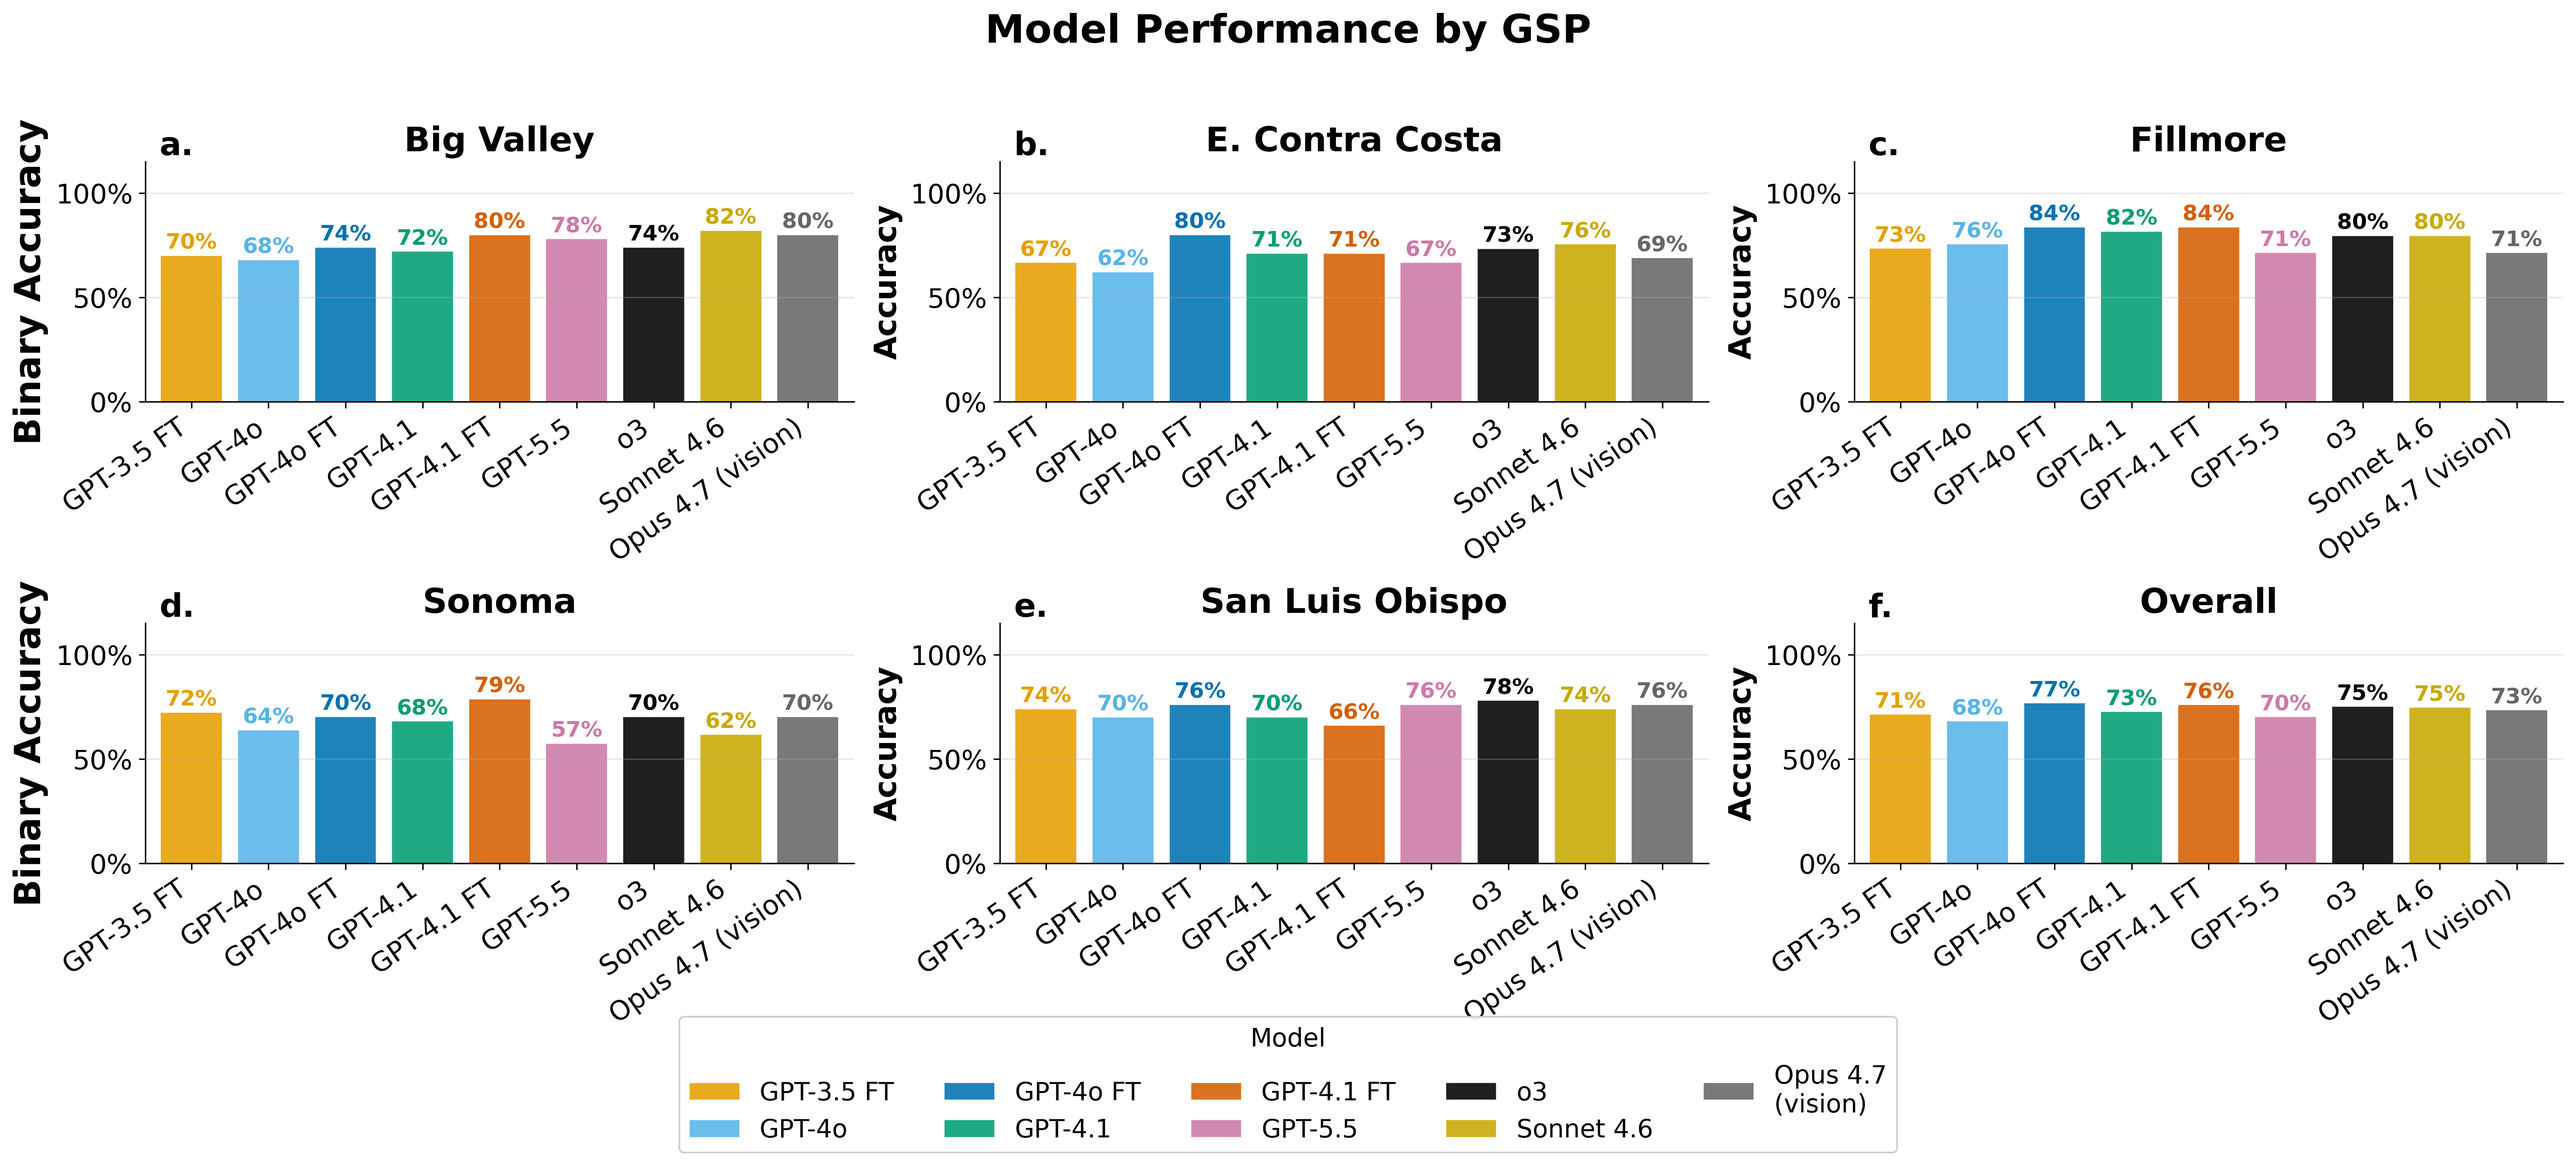
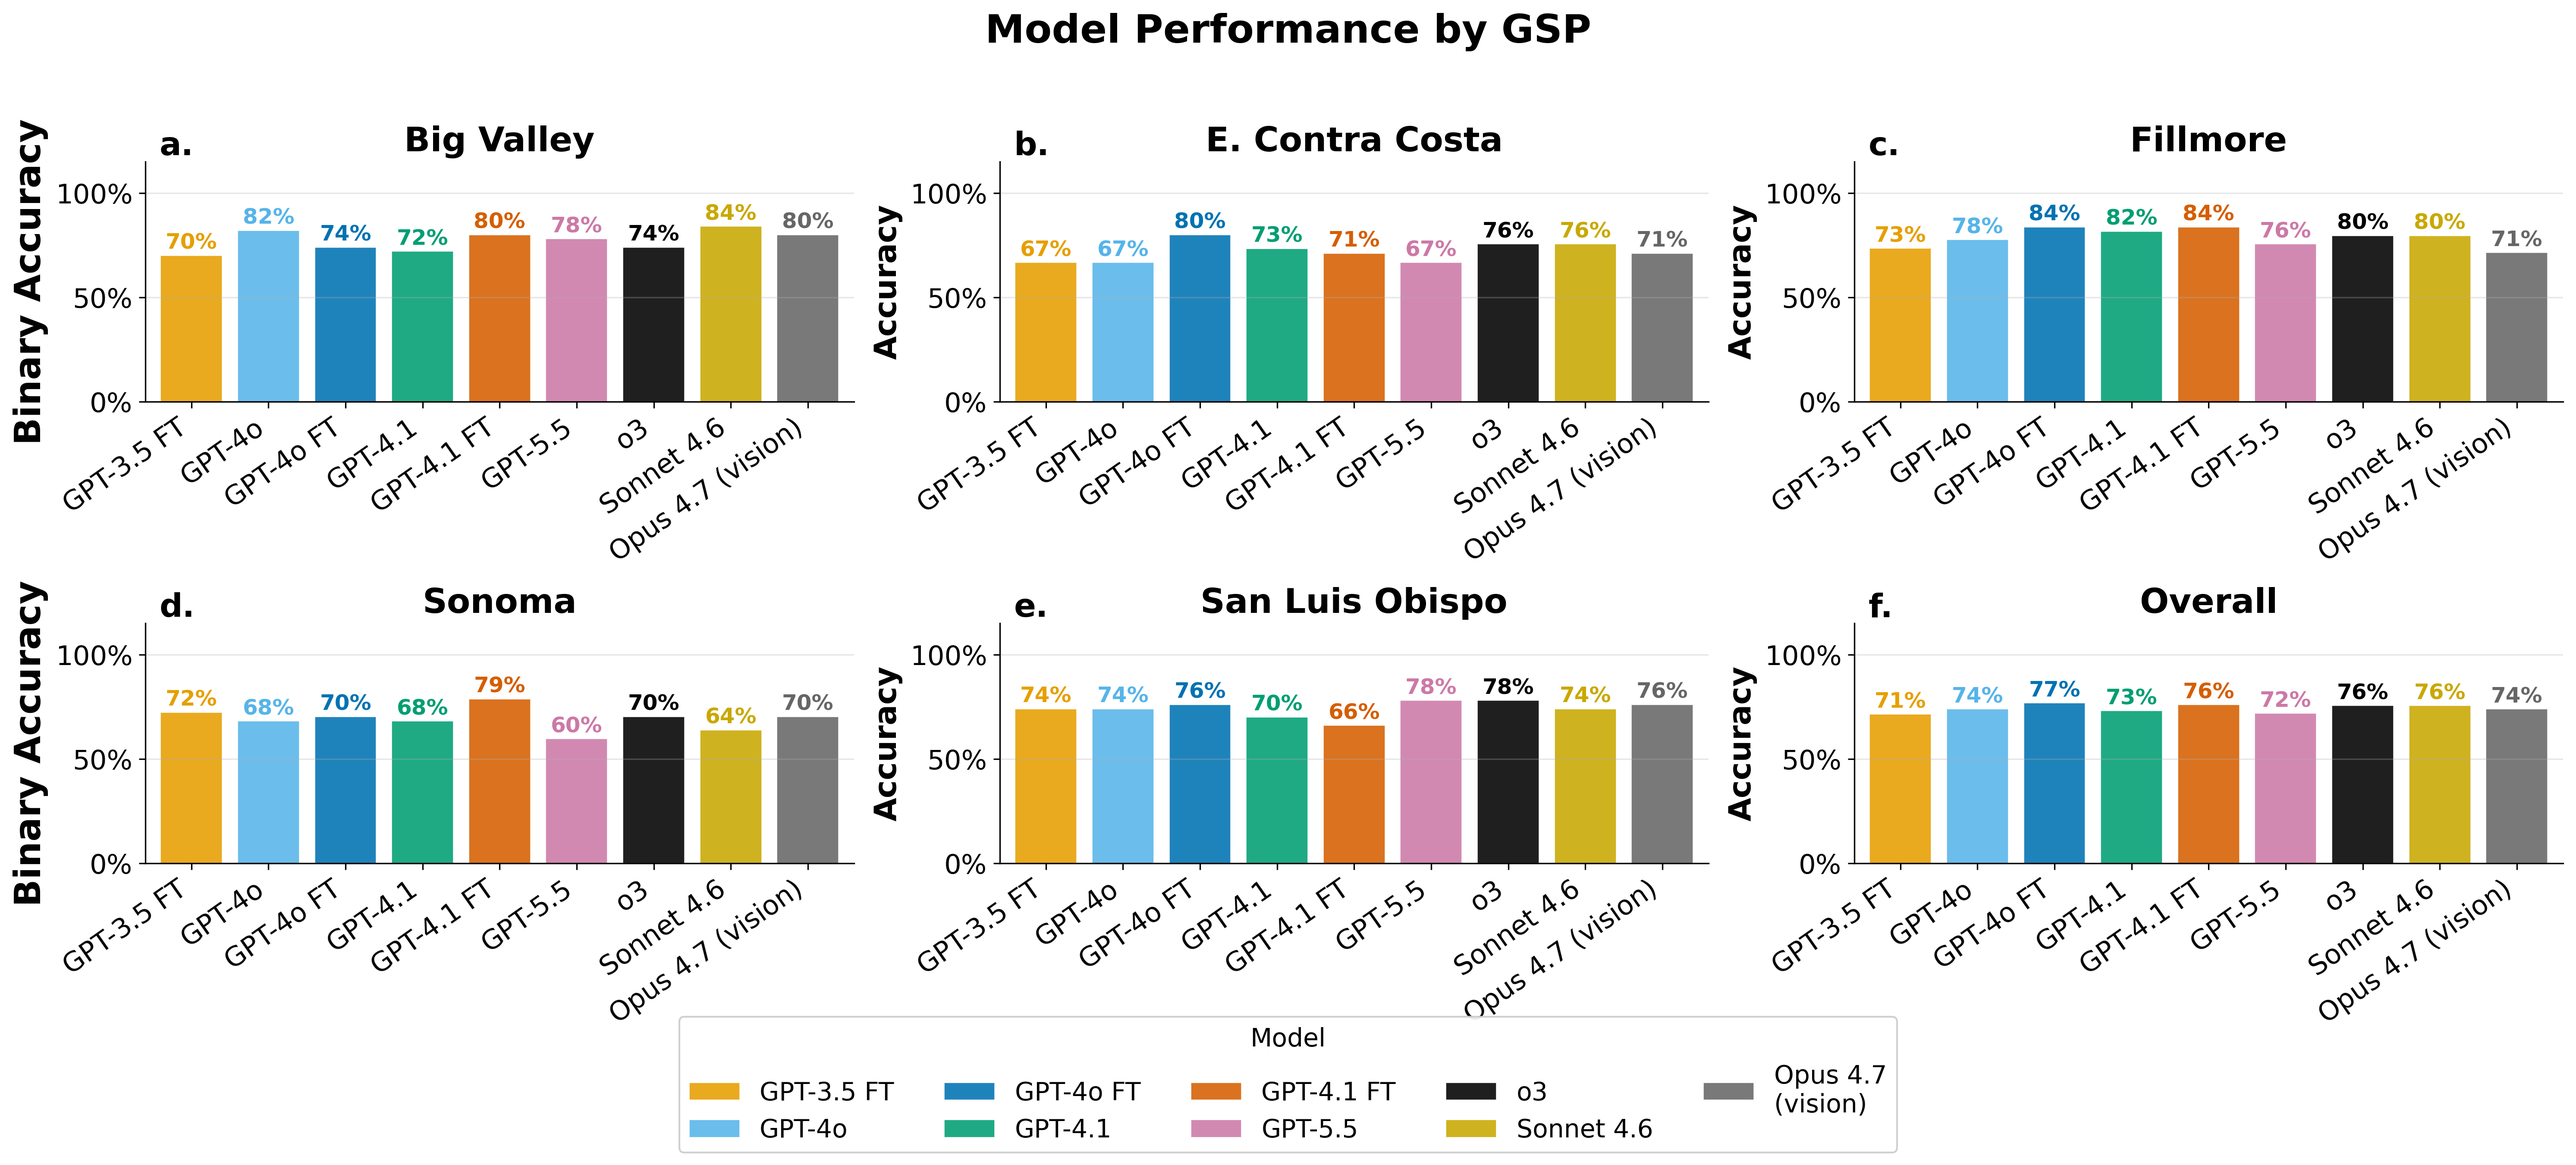
Fix binary accuracy figures to match Table 4 (CSV score method)
Binary accuracy figures now use the same Rocs_ score threshold (≥0.5 → Yes)
as Table 4 and the ROC/PRC figures, making all reported metrics consistent.
Previously the figures used checkpoint text-parsing which penalised models
with unparseable responses differently. Also updates README accuracy values
(GPT-4o 62.7→73.9%, GPT-3.5 FT 72.8→71.4%, GPT-4o FT 73.1→76.8%)
and adds the pure-inference timing benchmark script.

diff --git a/code final/make_class_accuracy_fig.py b/code final/make_class_accuracy_fig.py
@@ -127,6 +127,66 @@ MODELS = [
      '#666666'),
 ]
 
+# ── CSV-based binary predictions (score ≥ 0.5 → Yes, else No) ────────────────
+# Matches the Rocs_ scoring used in Table 4 and ROC/PRC figures for consistency.
+_CSV_GSP = {
+    'BigValley':           'BigValley',
+    'EastContraCosta':     'East Contra Costa',
+    'Fillmore':            'Fillmore',
+    'SonomaValley':        'Sonoma',
+    'SanLuisObispoValley': 'San Luis Obispo',
+}
+
+def _load_csv_bin(csv_path):
+    df   = pd.read_csv(csv_path)
+    sc   = [c for c in df.columns if c.startswith('Rocs_')][0]
+    gcol = 'GSP' if 'GSP' in df.columns else df.columns[1]
+    return {cname: ['Yes' if s >= 0.5 else 'No'
+                    for s in df[df[gcol] == _CSV_GSP[cname]][sc]]
+            for cname in GSP_CNAMES}
+
+def _load_opus_csv_bin():
+    slugs = {'BigValley': 'bigvalley', 'EastContraCosta': 'eastcontracosta',
+             'Fillmore': 'fillmore', 'SonomaValley': 'sonoma',
+             'SanLuisObispoValley': 'sanluisobispovalley'}
+    out = {}
+    for cname, slug in slugs.items():
+        df = pd.read_csv(sorted(glob.glob(
+            f'results/results_opus47_vision_{slug}_*.csv'))[-1])
+        sc = [c for c in df.columns if c.startswith('Rocs_')][0]
+        out[cname] = ['Yes' if s >= 0.5 else 'No' for s in df[sc]]
+    return out
+
+MODELS_BIN = [
+    ('GPT-3.5 FT',
+     _load_csv_bin(sorted(glob.glob('results/results_gpt35ftv4_trial5_*.csv'))[-1]),
+     '#E69F00'),
+    ('GPT-4o',
+     _load_csv_bin(sorted(glob.glob('results/results_gpt4o_trial5_*.csv'))[-1]),
+     '#56B4E9'),
+    ('GPT-4o FT',
+     _load_csv_bin(sorted(glob.glob('results/results_gpt4oftv4_trial5_*.csv'))[-1]),
+     '#0072B2'),
+    ('GPT-4.1',
+     _load_csv_bin(sorted(glob.glob('results/results_gpt41_trial5_*.csv'))[-1]),
+     '#009E73'),
+    ('GPT-4.1 FT',
+     _load_csv_bin(sorted(glob.glob('results/results_gpt41ftv4_trial5_*.csv'))[-1]),
+     '#D55E00'),
+    ('GPT-5.5',
+     _load_csv_bin(sorted(glob.glob('results/results_gpt55_trial5_*.csv'))[-1]),
+     '#CC79A7'),
+    ('o3',
+     _load_csv_bin('results/results_o3_finetuned_20260312_174405.csv'),
+     '#000000'),
+    ('Sonnet 4.6',
+     _load_csv_bin(sorted(glob.glob('results/results_sonnet46_trial5_*.csv'))[-1]),
+     '#C9A800'),
+    ('Opus 4.7\n(vision)',
+     _load_opus_csv_bin(),
+     '#666666'),
+]
+
 n_models = len(MODELS)
 x        = np.arange(len(CLASSES))
 width    = 0.08
@@ -177,8 +237,9 @@ def draw_class_accuracy_panel(ax, true_list, pred_by_model, title,
         ax.set_ylabel('Accuracy', fontsize=label_fs, fontweight='bold')
 
 # ── Overall: all 5 GSPs pooled ────────────────────────────────────────────────
-true_overall = sum((rubric_by_gsp[c] for c in GSP_CNAMES), [])
-pred_overall = {name: sum((preds[c] for c in GSP_CNAMES), []) for name, preds, _ in MODELS}
+true_overall     = sum((rubric_by_gsp[c] for c in GSP_CNAMES), [])
+pred_overall     = {name: sum((preds[c] for c in GSP_CNAMES), []) for name, preds, _ in MODELS}
+bin_pred_overall = {name: sum((preds[c] for c in GSP_CNAMES), []) for name, preds, _ in MODELS_BIN}
 
 fig, ax = plt.subplots(figsize=(14, 5.5), dpi=150)
 draw_class_accuracy_panel(ax, true_overall, pred_overall, 'Overall (all 5 Trial GSPs)',
@@ -310,7 +371,7 @@ def draw_binary_panel(ax, true_list, pred_by_model, title, ylabel=True,
 
 # Overall binary
 fig, ax = plt.subplots(figsize=(11, 5.5), dpi=150)
-draw_binary_panel(ax, true_overall, pred_overall, 'Overall — Binary (Yes vs. No+Somewhat)',
+draw_binary_panel(ax, true_overall, bin_pred_overall, 'Overall — Binary (Yes vs. No+Somewhat)',
                   include_overall=True, show_labels=True)
 ax.set_title('Model Performance by Response Category', fontsize=19, fontweight='bold', pad=10)
 handles, labels = ax.get_legend_handles_labels()
@@ -326,7 +387,7 @@ print('Saved: images/binary_accuracy_overall.png')
 fig, axes = plt.subplots(2, 3, figsize=(20, 9), dpi=150)
 axes = axes.flatten()
 for panel_idx, (cname, label) in enumerate(zip(GSP_CNAMES, GSP_LABELS)):
-    pred_gsp = {name: preds[cname] for name, preds, _ in MODELS}
+    pred_gsp = {name: preds[cname] for name, preds, _ in MODELS_BIN}
     draw_binary_panel(axes[panel_idx], rubric_by_gsp[cname], pred_gsp,
                       label, ylabel=(panel_idx % 3 == 0), show_labels=False,
                       tick_fs=18, label_fs=20)
@@ -334,7 +395,7 @@ for panel_idx, (cname, label) in enumerate(zip(GSP_CNAMES, GSP_LABELS)):
     axes[panel_idx].text(0.02, 1.0, f'{chr(ord("a") + panel_idx)}.',
                          transform=axes[panel_idx].transAxes,
                          fontsize=18, fontweight='bold', va='bottom')
-draw_overall_panel(axes[5], true_overall, pred_overall, binary=True)
+draw_overall_panel(axes[5], true_overall, bin_pred_overall, binary=True)
 axes[5].set_title('Overall', fontsize=19, fontweight='bold')
 axes[5].text(0.02, 1.0, 'f.', transform=axes[5].transAxes,
              fontsize=18, fontweight='bold', va='bottom')
@@ -355,10 +416,12 @@ for binary, ylabel_str, suptitle_str, outfile in [
     (True,  'Binary Accuracy',  'Model Performance by GSP',               'images/binary_accuracy_by_gsp_overall.png'),
     (False, '3-Class Accuracy', 'Model Performance by GSP',                'images/class_accuracy_by_gsp_overall.png'),
 ]:
+    _pred_src  = MODELS_BIN     if binary else MODELS
+    _pred_pool = bin_pred_overall if binary else pred_overall
     fig, axes = plt.subplots(2, 3, figsize=(20, 9), dpi=150)
     axes = axes.flatten()
     for panel_idx, (cname, label) in enumerate(zip(GSP_CNAMES, GSP_LABELS)):
-        pred_gsp = {name: preds[cname] for name, preds, _ in MODELS}
+        pred_gsp = {name: preds[cname] for name, preds, _ in _pred_src}
         draw_overall_panel(axes[panel_idx], rubric_by_gsp[cname], pred_gsp, binary=binary)
         axes[panel_idx].set_title(label, fontsize=19, fontweight='bold')
         axes[panel_idx].text(0.02, 1.0, f'{chr(ord("a") + panel_idx)}.',
@@ -366,7 +429,7 @@ for binary, ylabel_str, suptitle_str, outfile in [
                              fontsize=18, fontweight='bold', va='bottom')
         if panel_idx % 3 == 0:
             axes[panel_idx].set_ylabel(ylabel_str, fontsize=20, fontweight='bold')
-    draw_overall_panel(axes[5], true_overall, pred_overall, binary=binary)
+    draw_overall_panel(axes[5], true_overall, _pred_pool, binary=binary)
     axes[5].set_title('Overall', fontsize=19, fontweight='bold')
     axes[5].text(0.02, 1.0, 'f.', transform=axes[5].transAxes,
                  fontsize=18, fontweight='bold', va='bottom')

diff --git a/code final/time_inference_gpt41ft.py b/code final/time_inference_gpt41ft.py
@@ -1,0 +1,151 @@
+"""
+Time pure inference (no embedding computation) for GPT-4.1 FT on 3 GSPs
+with pre-cached embeddings.
+
+Run from repo root:
+    python3 "code final/time_inference_gpt41ft.py"
+"""
+import re, os, json, time
+import numpy as np
+from openai import OpenAI
+from sklearn.metrics.pairwise import cosine_similarity
+
+from prompts_2 import prompts
+
+# ── CONFIG ────────────────────────────────────────────────────────────────────
+with open(os.path.expanduser('~/Desktop/chatgde_api')) as f:
+    openai_key = re.search(r'sk-[A-Za-z0-9_-]+', f.read()).group(0)
+
+MODEL    = 'ft:gpt-4.1-2025-04-14:personal:gspv4:DbO4oSN8'
+PAGES_DIR = os.path.expanduser('~/Desktop/gsps_all/GSP_Pages')
+EMB_DIR   = 'results/gsp_embeddings'
+TOP_N     = 10
+
+# Small (~282 pages), medium (~468 pages), large (~676 pages)
+TIMING_GSPS = [
+    (3,  '3_Yolo_DraftGSP'),
+    (9,  '9_Solano_DraftGSP'),
+    (10, '10_Sutter_DraftGSP'),
+]
+
+no_test    = [2, 8, 9, 10, 11, 12, 13, 15, 16, 19, 20, 21, 23, 26, 27, 35, 38, 39, 69]
+active_qs  = [i for i in range(1, 71) if i not in no_test]  # 51 questions
+N_QUESTIONS = len(active_qs)
+
+SYSTEM_PROMPT = (
+    'You are a skeptical environmental scientist reviewing a section of a '
+    'Groundwater Sustainability Plan (GSP).\n\n'
+    'For each question, follow these steps:\n'
+    '1. Quote the most relevant passage(s) from the provided text '
+    "(or state 'No relevant text found').\n"
+    '2. Briefly explain your reasoning.\n'
+    '3. On the final line, give your answer in exactly this format:\n'
+    'ANSWER: X, Z\n'
+    'where X is Yes, No, or Somewhat, and Z is one of: '
+    'Extremely Confident, 100% | Very Confident, 85% | '
+    'Fairly Confident, 75% | Modest Confidence, 60% | Random Guess, 50%\n\n'
+    "Only use 'Extremely Confident, 100%' if the answer is irrefutably "
+    'supported by the text. Use Somewhat when the GSP partially addresses '
+    'the criterion but not fully.'
+)
+
+client = OpenAI(api_key=openai_key)
+
+# ── Helpers ───────────────────────────────────────────────────────────────────
+def get_embedding(text):
+    text = text.strip().replace('\n', ' ')
+    if not text:
+        return np.zeros(3072).tolist()
+    resp = client.embeddings.create(input=[text], model='text-embedding-3-large')
+    return resp.data[0].embedding
+
+def load_cached_embeddings(gsp_name, pages_path):
+    emb_path = os.path.join(EMB_DIR, f'{gsp_name}_embeddings.json')
+    if not os.path.exists(emb_path):
+        raise FileNotFoundError(f'No cached embeddings for {gsp_name}')
+    with open(pages_path, 'r', encoding='utf-8') as f:
+        pages = f.read().split('\n\n')
+    with open(emb_path, 'r') as f:
+        embeddings = json.load(f)
+    if embeddings and not isinstance(embeddings[0], list):
+        embeddings = [embeddings]
+    return pages, embeddings
+
+def find_most_relevant_pages(pages, embeddings, question):
+    q_emb   = get_embedding(question)
+    scores  = [cosine_similarity([q_emb], [e])[0][0] for e in embeddings]
+    top_idx = np.argsort(scores)[::-1][:TOP_N]
+    return '\n'.join(pages[i] for i in top_idx)
+
+def clean_text(text):
+    return re.sub(r'[\x00-\x08\x0b\x0c\x0e-\x1f\x7f]', '', text).replace('\r', ' ')
+
+def with_retry(fn, max_retries=5, base_delay=15):
+    for attempt in range(max_retries):
+        try:
+            return fn()
+        except Exception as e:
+            if attempt == max_retries - 1:
+                raise
+            delay = base_delay * (2 ** attempt)
+            print(f'    Retry {attempt+1}/{max_retries} in {delay}s — {e}', flush=True)
+            time.sleep(delay)
+
+# ── Timing run ────────────────────────────────────────────────────────────────
+print(f'Timing pure inference on {len(TIMING_GSPS)} GSPs (embeddings pre-cached)')
+print(f'Model: {MODEL}')
+print(f'Questions per GSP: {N_QUESTIONS}')
+print('=' * 60, flush=True)
+
+gsp_times = []
+
+for gid, gsp_name in TIMING_GSPS:
+    pages_path = os.path.join(PAGES_DIR, f'{gsp_name}_pages.txt')
+    pages, embeddings = load_cached_embeddings(gsp_name, pages_path)
+    n_pages = len(pages)
+    print(f'\n[{gid}] {gsp_name} ({n_pages} pages)', flush=True)
+
+    t_gsp_start = time.perf_counter()
+
+    for idx, qi in enumerate(active_qs):
+        section = find_most_relevant_pages(pages, embeddings, prompts[qi - 1])
+
+        def _call(s=section, q=prompts[qi - 1]):
+            resp = client.chat.completions.create(
+                model=MODEL,
+                messages=[
+                    {'role': 'system', 'content': SYSTEM_PROMPT},
+                    {'role': 'user',   'content': clean_text(s + q)},
+                ],
+                max_tokens=1024,
+            )
+            return resp.choices[0].message.content
+
+        with_retry(_call)
+
+        answered = idx + 1
+        if answered % 10 == 0 or answered == N_QUESTIONS:
+            elapsed = (time.perf_counter() - t_gsp_start) / 60
+            print(f'  Q{qi:2d} ({answered}/{N_QUESTIONS}) — {elapsed:.1f} min elapsed',
+                  flush=True)
+
+    gsp_elapsed = (time.perf_counter() - t_gsp_start) / 60
+    gsp_times.append(gsp_elapsed)
+    print(f'  [{gsp_name}] done — {gsp_elapsed:.2f} min', flush=True)
+
+# ── Summary ───────────────────────────────────────────────────────────────────
+print(f'\n{"=" * 60}')
+print(f'{"GSP":<40}  {"Pages":>5}  {"Time (min)":>10}')
+print('-' * 60)
+for (gid, gsp_name), t in zip(TIMING_GSPS, gsp_times):
+    pages_path = os.path.join(PAGES_DIR, f'{gsp_name}_pages.txt')
+    with open(pages_path) as f:
+        n_pages = len(f.read().split('\n\n'))
+    print(f'{gsp_name:<40}  {n_pages:>5}  {t:>10.2f}')
+
+avg = sum(gsp_times) / len(gsp_times)
+print('-' * 60)
+print(f'{"Average":<40}  {"":>5}  {avg:>10.2f}')
+print(f'\nEstimated pure inference time per GSP: {avg:.2f} min')
+print(f'Estimated embedding/overhead per GSP:  {8.0 - avg:.2f} min '
+      f'(based on 8.0 min all-in average)')

diff --git a/README.md b/README.md
@@ -10,7 +10,7 @@ The pipeline retrieves the most relevant chunks from each GSP PDF using hybrid B
 
 We evaluated nine model configurations across five trial GSPs: GPT-3.5 FT, GPT-4o (base and fine-tuned), GPT-4.1 (base and fine-tuned), GPT-5.5, OpenAI o3, Claude Sonnet 4.6, and Claude Opus 4.7 (vision). The best model (fine-tuned GPT-4.1 v4) was then run on all 62 high- and medium-priority California GSPs.
 
-Best binary accuracy on trial GSPs: **75.9%** (GPT-4.1 FT v4). Among base models, Claude Sonnet 4.6 and o3 both reach **75.5%** without any fine-tuning.
+Best binary accuracy on trial GSPs: **75.9%** (GPT-4.1 FT v4). Among base models, o3 and Claude Sonnet 4.6 both reach **75.5%** without any fine-tuning.
 
 ## Repo structure
 
@@ -41,12 +41,12 @@ images/
 
 | Model | Binary Acc. | ROC AUC | PRC AUC |
 |---|---|---|---|
-| GPT-4o (base) | 62.7% | 0.711 | 0.590 |
-| GPT-3.5 FT | 72.8% | 0.693 | 0.631 |
-| GPT-4o FT | 73.1% | 0.770 | 0.696 |
+| GPT-4o (base) | 73.9% | 0.711 | 0.590 |
+| GPT-3.5 FT | 71.4% | 0.693 | 0.631 |
+| GPT-4o FT | 76.8% | 0.770 | 0.696 |
 | GPT-4.1 (base) | 73.0% | 0.759 | 0.639 |
 | GPT-5.5 (base) | 71.8% | 0.723 | 0.632 |
-| o3 + Reranker | 75.5% | 0.762 | 0.636 |
+| o3 | 75.5% | 0.762 | 0.636 |
 | Claude Sonnet 4.6 | 75.5% | 0.749 | 0.639 |
 | Claude Opus 4.7 (vision) | 73.9% | 0.736 | 0.616 |
 | **GPT-4.1 FT v4** | **75.9%** | **0.773** | **0.711** |
